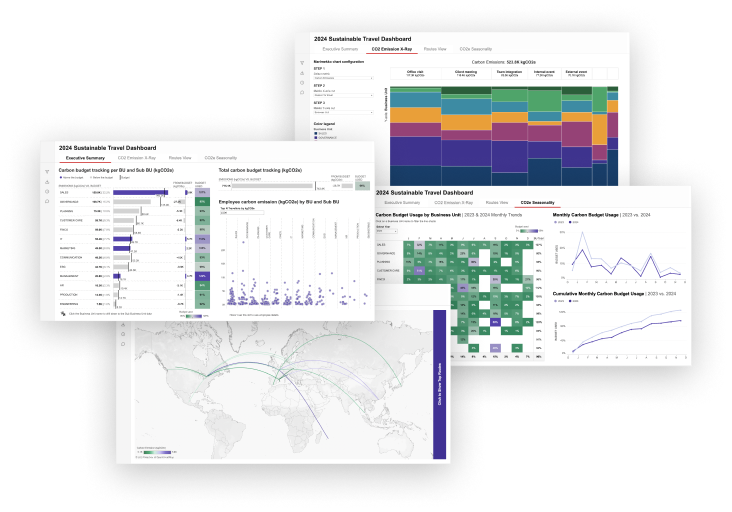
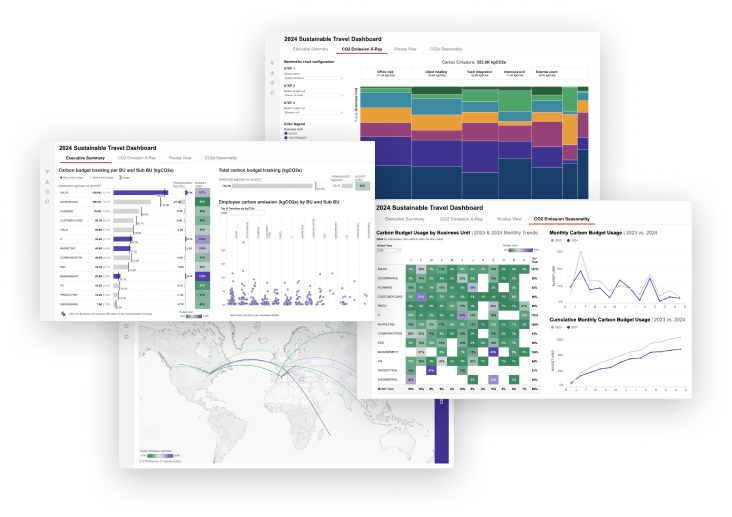
project-pages-styling corrections

Changed region(s): [[0.0601, 0.0625, 0.9317, 0.9062], [0.4208, 0.7812, 0.4508, 0.8438], [0.1803, 0.875, 0.2404, 0.9062]]

diff --git a/src/pages/project_sustainable_travel/ProjectSustainableTravel.jsx b/src/pages/project_sustainable_travel/ProjectSustainableTravel.jsx
@@ -1,7 +1,11 @@
 import React, { useEffect, useRef } from "react";
 import SyntaxHighlighter from "react-syntax-highlighter";
 import { nord } from "react-syntax-highlighter/dist/esm/styles/hljs";
-import dashboardCyclisticImg from "../../assets/cyclistic_dashboard_img.png";
+import dashboardSustainableTravelImg1 from "../../assets/sustainable_travel_dash_img_1.png";
+import dashboardSustainableTravelImg2 from "../../assets/sustainable_travel_dash_img_2.png";
+import dashboardSustainableTravelImg3 from "../../assets/sustainable_travel_dash_img_3.png";
+import dashboardSustainableTravelImg4 from "../../assets/sustainable_travel_dash_img_4.png";
+import dashboardSustainableTravelImg5 from "../../assets/sustainable_travel_dash_img_5.png";
 import ProjectIntro from "../../components/projectIntro/ProjectIntro";
 import "../../components/projectIntro/projectIntro.css";
 import { projectIntros } from "../../data/projectIntros";
@@ -14,9 +18,10 @@ CREATE DATABASE sustainable_travel
 WITH encoding = 'UTF-8';
 
 COMMENT ON DATABASE sustainable_travel IS 
-'This database contains data on carbon emissions from business travel 
-in 2023 and 2024, segmented by business unit, sub-business unit, 
-city, country, flight type, travel purpose, and employee.'
+'This database contains data on carbon emissions from 
+business travel in 2023 and 2024, segmented by business 
+unit, sub-business unit, city, country, flight type, 
+travel purpose, and employee.'
 
 -- creating database tables
 CREATE TABLE t_travel_data_egencia (
@@ -91,8 +96,8 @@ WITH cte_travel_data AS (
       ELSE 'Short-haul'
     END AS type_of_flight,
     travel_start_date,
-    CAST(EXTRACT(YEAR FROM travel_start_date) AS character varying) 
-      AS travel_year,
+    CAST(EXTRACT(YEAR FROM travel_start_date) 
+    AS character varying) AS travel_year,
     co2_emission,
     distance_km
   FROM mv_travel_data_egencia
@@ -115,8 +120,8 @@ WITH cte_travel_data AS (
       ELSE 'Short-haul'
     END AS type_of_flight,
     travel_start_date,
-    CAST(EXTRACT(YEAR FROM travel_start_date) AS character varying) 
-      AS travel_year,
+    CAST(EXTRACT(YEAR FROM travel_start_date) 
+    AS character varying) AS travel_year,
     co2_emission,
     distance_km
   FROM mv_travel_data_netsuite
@@ -129,8 +134,9 @@ cte_cities AS (
     c.city_long AS arrival_city_long,
     d.city_lat AS departure_city_lat,  
     d.city_long AS departure_city_long,
-    -- Window functions to avoid Level of Detail calculations on Tableau side,
-    -- as they have negative impact on the response time 
+    -- Added window functions to avoid Level of Detail 
+    -- calculations on Tableau side, as they have negative
+    -- negative impact on the response time 
     SUM(t.co2_emission) OVER(PARTITION BY t.sub_business_unit, t.travel_year) 
       AS sum_co2_subbu,
     SUM(t.co2_emission) OVER(PARTITION BY t.business_unit, t.travel_year) 
@@ -161,7 +167,8 @@ cte_budget_subbu AS (
 ),
 
 cte_distinct_budgets AS (
-  -- Select distinct co2_budget_subbu values to prevent duplicate summing
+  -- Select distinct co2_budget_subbu values 
+  -- to prevent duplicate summing
   SELECT DISTINCT 
     business_unit, 
     travel_year, 
@@ -171,7 +178,8 @@ cte_distinct_budgets AS (
 ),
 
 cte_budget_bu AS (
-  -- Calculate the business_unit level total budget for each travel_year
+  -- Calculate the business_unit level total budget 
+  -- for each travel_year
   SELECT 
     business_unit,
     travel_year,
@@ -181,7 +189,8 @@ cte_budget_bu AS (
 ),
 
 cte_budget_year AS (
-  -- Calculate the year level total budget for each travel_year
+  -- Calculate the year level total budget 
+  -- for each travel_year
   SELECT 
     travel_year,
     SUM(co2_budget_bu) AS co2_budget_year
@@ -201,8 +210,8 @@ JOIN cte_budget_year y
   ON bu.travel_year = y.travel_year;
 
 COMMIT;`;
-const sqlTriggers = `-- creating or replacing the function to refresh the materialized 
--- view after each data modification 
+const sqlTriggers = `-- creating or replacing the function to refresh
+-- the materialized view after each data modification 
 CREATE OR REPLACE FUNCTION refresh_materialized_view()
   RETURNS TRIGGER AS 
 $$ 
@@ -240,25 +249,29 @@ AFTER INSERT OR UPDATE OR DELETE ON t_carbon_budget
 FOR EACH STATEMENT
 EXECUTE FUNCTION refresh_materialized_view()
 WITH DEFERRABLE INITIALLY DEFERRED;`;
-const sqlTriggersCheck = `-- checking if the trigger for travel_data_egencia table has been created
+const sqlTriggersCheck = `-- checking if the trigger for travel_data_egencia 
+-- table has been created
 SELECT tgname
 FROM pg_trigger
 WHERE tgrelid = 't_travel_data_egencia'::regclass
   AND tgname = 't_travel_data_egencia_refresh';
   
--- checking if the trigger for travel_data_netsuite table has been created
+-- checking if the trigger for travel_data_netsuite 
+-- table has been created
 SELECT tgname
 FROM pg_trigger
 WHERE tgrelid = 't_travel_data_netsuite'::regclass
   AND tgname = 't_travel_data_netsuite_refresh';
 
--- checking if the trigger for cities table has been created
+-- checking if the trigger for cities table 
+-- has been created
 SELECT tgname
 FROM pg_trigger
 WHERE tgrelid = 't_cities'::regclass
   AND tgname = 't_cities_refresh';
   
--- checking if the trigger for carbon_budget table has been created
+-- checking if the trigger for carbon_budget 
+-- table has been created
 SELECT tangle
 FROM pg_trigger
 WHERE tgrelid = 't_carbon_budget'::regclass
@@ -277,7 +290,8 @@ SELECT
   MAX(LENGTH(row_id)) 
 FROM mv_sustainable_travel;
 
--- checking the total number of row_ids to confirm if there is one row per row_id
+-- checking the total number of row_ids to confirm if 
+-- there is one row per row_id
 SELECT COUNT(row_id) FROM mv_sustainable_travel; 
 
 -- checking if ride IDs have any duplicate values
@@ -310,11 +324,17 @@ const sqlNullCheck = `SELECT
   COUNT(*) - COUNT(co2_budget_bu) AS co2_budget_bu_nc, --0
   COUNT(*) - COUNT(co2_budget_year) AS co2_budget_year_nc --0
 FROM mv_sustainable_travel;`;
-const sqlBuCheck = `SELECT COUNT(DISTINCT(business_unit)) FROM mv_sustainable_travel;	
-SELECT DISTINCT(business_unit) FROM mv_sustainable_travel;
+const sqlBuCheck = `SELECT COUNT(DISTINCT(business_unit)) 
+FROM mv_sustainable_travel;	
 
-SELECT COUNT(DISTINCT(sub_business_unit)) FROM mv_sustainable_travel;
-SELECT DISTINCT(sub_business_unit) FROM mv_sustainable_travel;`;
+SELECT DISTINCT(business_unit) 
+FROM mv_sustainable_travel;
+
+SELECT COUNT(DISTINCT(sub_business_unit)) 
+FROM mv_sustainable_travel;
+
+SELECT DISTINCT(sub_business_unit) 
+FROM mv_sustainable_travel;`;
 const sqlRemoveNull = `SELECT * FROM mv_sustainable_travel
 WHERE arrival_city_lat IS NULL
   OR arrival_city_long IS NULL;
@@ -552,7 +572,7 @@ export const ProjectSustainableTravel = () => {
   const url =
     "https://public.tableau.com/views/SustainableTravelDashboard/ExecutiveSummary";
   const options = {
-    width: "1560px",
+    width: "1430px",
     height: "840px",
     hideToolbar: true,
     device: "desktop",
@@ -1079,7 +1099,27 @@ export const ProjectSustainableTravel = () => {
       </p>
       <div className="tableau-dash" ref={ref}></div>
       <img
-        src={dashboardCyclisticImg}
+        src={dashboardSustainableTravelImg1}
+        alt="Sample picture of the dashboard."
+        className="dashboard-img"
+      />
+      <img
+        src={dashboardSustainableTravelImg2}
+        alt="Sample picture of the dashboard."
+        className="dashboard-img"
+      />
+      <img
+        src={dashboardSustainableTravelImg3}
+        alt="Sample picture of the dashboard."
+        className="dashboard-img"
+      />
+      <img
+        src={dashboardSustainableTravelImg4}
+        alt="Sample picture of the dashboard."
+        className="dashboard-img"
+      />
+      <img
+        src={dashboardSustainableTravelImg5}
         alt="Sample picture of the dashboard."
         className="dashboard-img"
       />

diff --git a/src/pages/project_cyclistic/projectCyclistic.css b/src/pages/project_cyclistic/projectCyclistic.css
@@ -22,3 +22,49 @@
 .project-cyclistic-intro .project-content-sub-sub-title {
   color: var(--font-color-project-id4);
 }
+
+@media screen and (max-width: 900px) {
+  .project-cyclistic-intro .project-sustainable-travel-intro {
+    grid-column: 1 / 7;
+  }
+
+  .project-cyclistic-intro .project-content-main-title {
+    grid-column: 1 / 5;
+  }
+
+  .project-cyclistic-intro .dashboard-img {
+    grid-column: 3 / 7;
+    width: 100%;
+    height: auto;
+  }
+
+  .project-cyclistic-intro .project-img {
+    padding: 2rem 3rem;
+  }
+}
+
+@media screen and (max-width: 430px) {
+  .project-cyclistic-intro .project-img {
+    grid-column: 1 / 6;
+  }
+
+  .project-cyclistic-intro .project-img {
+    padding: 0.5rem 0;
+  }
+
+  .project-cyclistic-intro .dashboard-img {
+    grid-column: 1 / 6;
+  }
+
+  .project-cyclistic-intro .project-content-description {
+    padding: 0 0 0 0;
+  }
+
+  .project-cyclistic-intro .project-content-description-code {
+    padding: 1.5rem 0 0 0;
+  }
+
+  .project-cyclistic-intro .project-content-description-first {
+    padding: 0 0 0 0;
+  }
+}

diff --git a/src/pages/project_sustainable_travel/projectSustainableTravel.css b/src/pages/project_sustainable_travel/projectSustainableTravel.css
@@ -28,3 +28,49 @@
 .project-sustainable-travel-intro .project-content-sub-sub-title {
   color: var(--font-color-project-id2);
 }
+
+@media screen and (max-width: 900px) {
+  .project-sustainable-travel-intro {
+    grid-column: 1 / 7;
+  }
+
+  .project-content-main-title {
+    grid-column: 1 / 5;
+  }
+
+  .dashboard-img {
+    grid-column: 3 / 7;
+    width: 100%;
+    height: auto;
+  }
+
+  .project-img {
+    padding: 2rem 3rem;
+  }
+}
+
+@media screen and (max-width: 430px) {
+  .project-sustainable-travel-intro .project-img {
+    grid-column: 1 / 6;
+  }
+
+  .project-sustainable-travel-intro .project-img {
+    padding: 0.5rem 0;
+  }
+
+  .project-sustainable-travel-intro .dashboard-img {
+    grid-column: 1 / 6;
+  }
+
+  .project-sustainable-travel-intro .project-content-description {
+    padding: 0 0 0 0;
+  }
+
+  .project-sustainable-travel-intro .project-content-description-code {
+    padding: 1.5rem 0 0 0;
+  }
+
+  .project-sustainable-travel-intro .project-content-description-first {
+    padding: 0 0 0 0;
+  }
+}

diff --git a/src/pages/projectPage.css b/src/pages/projectPage.css
@@ -214,7 +214,7 @@
   }
 
   .dashboard-res-note {
-    font-size: 0.9rem;
+    font-size: 0.8rem;
     line-height: 1.2rem;
     padding: 0;
   }
